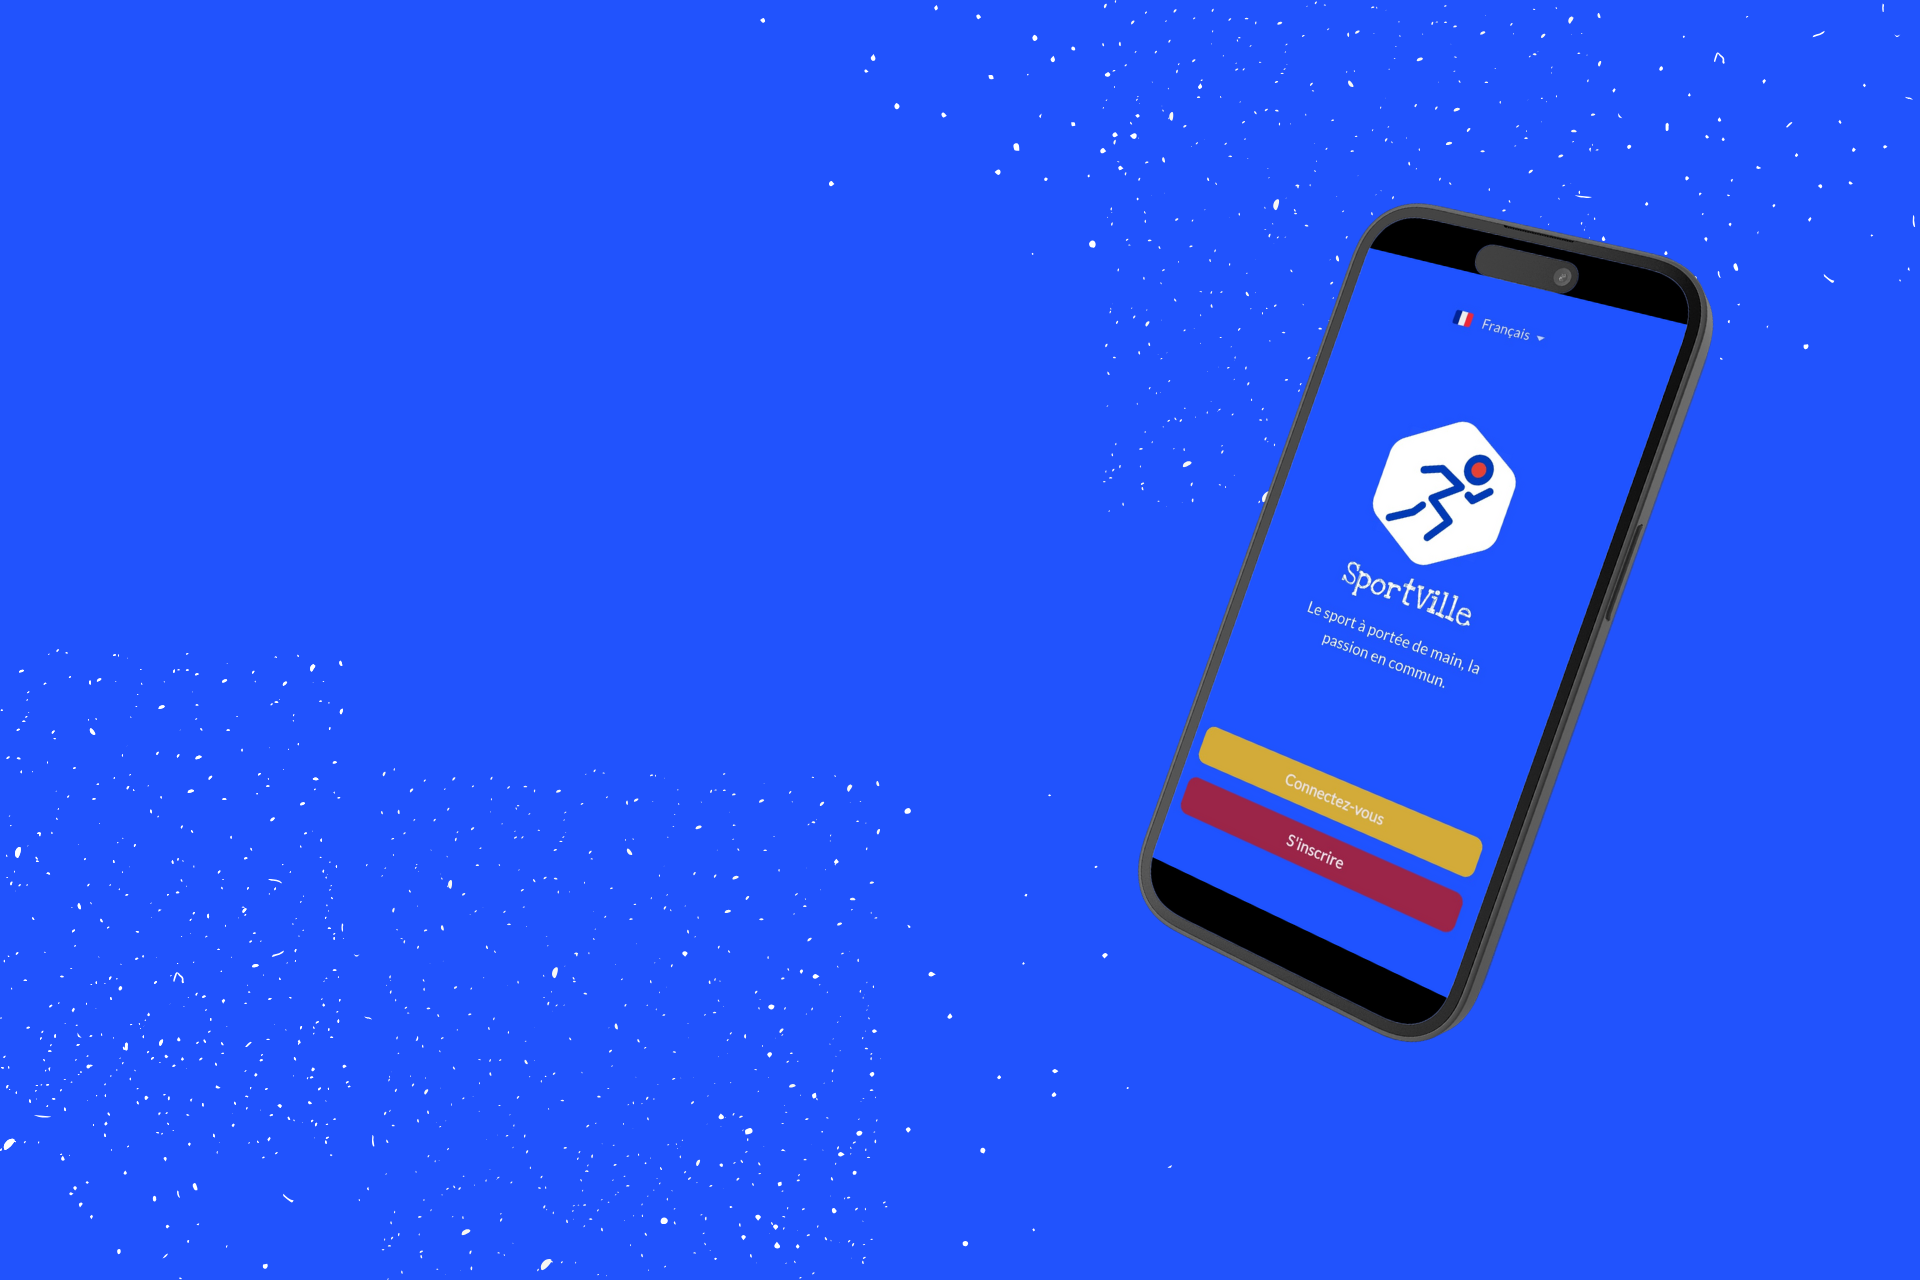
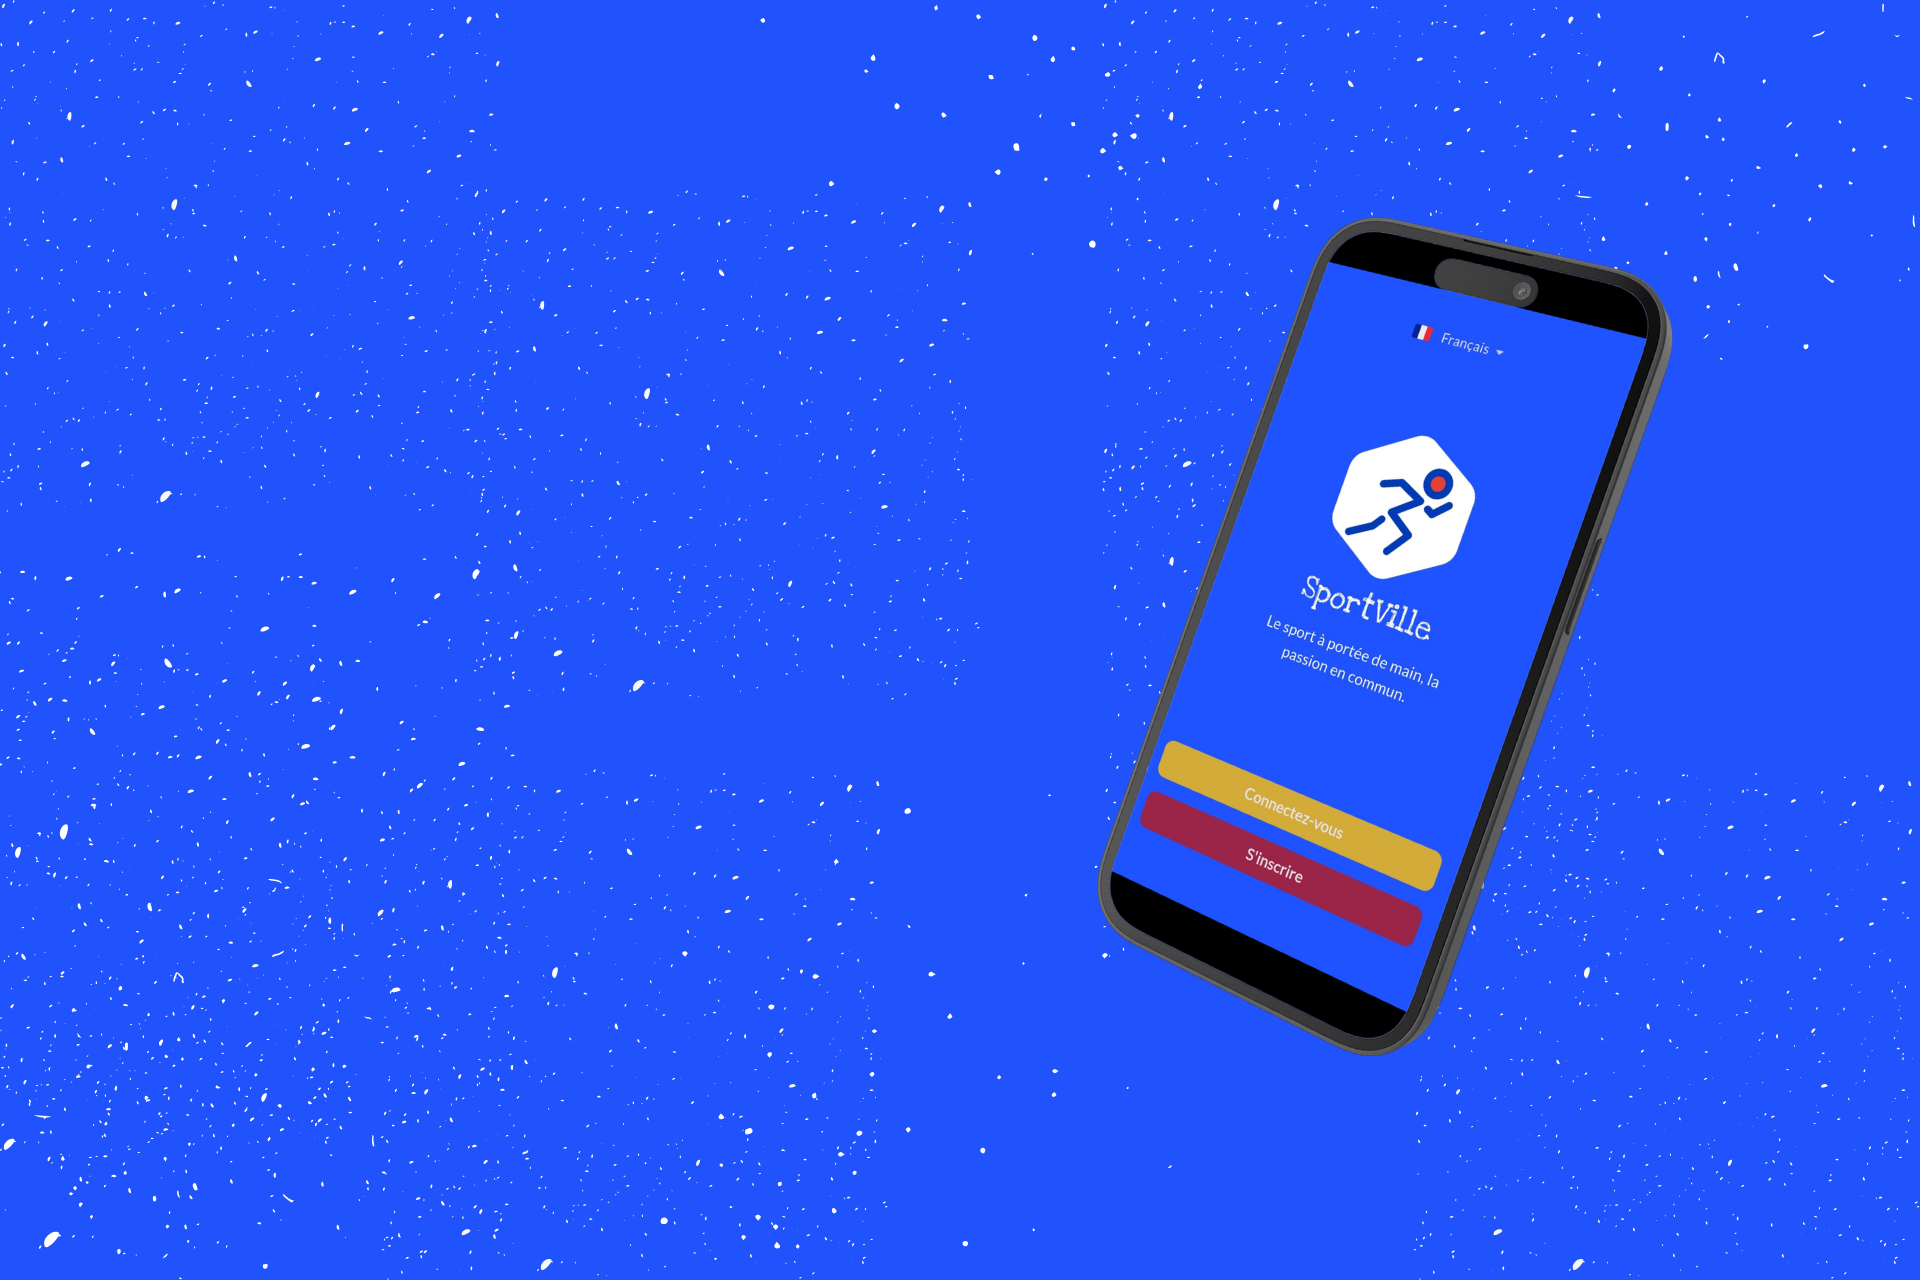
feat: update bc image with mobile style

Changed region(s): [[0.5625, 0.1562, 0.9062, 0.8438]]

diff --git a/sportville-landing-page/src/components/Footer/Footer.tsx b/sportville-landing-page/src/components/Footer/Footer.tsx
@@ -5,182 +5,97 @@ import { Instagram, Mail, MapPin } from 'lucide-react';
 
 const Footer: React.FC = () => {
   return (
-    // <footer style={{ backgroundColor: COLORS.background }} className="text-white pt-16 pb-8">
-    //   <div className="container mx-auto max-w-6xl px-6">
-    //     <div className="grid grid-cols-1 md:grid-cols-2 lg:grid-cols-4 gap-8 mb-12">
-    //       {/* Column 1 - About */}
-    //       <div>
-    //         <div className="flex items-center space-x-2 me-10">
-    //           <svg width="200px" height="200px" viewBox="-4.8 -4.8 57.60 57.60" fill="none" xmlns="http://www.w3.org/2000/svg">
-
-    //               <g id="SVGRepo_bgCarrier" strokeWidth="0"/>
-
-    //               <g id="SVGRepo_tracerCarrier" strokeLinecap="round" strokeLinejoin="round"/>
-
-    //               <g id="SVGRepo_iconCarrier"> <rect width="48" height="48" fill="white" fillOpacity="0.01"/> 
-    //                 <path d="M36 15C38.7614 15 41 12.7614 41 10C41 7.23858 38.7614 5 36 5C33.2386 5 31 7.23858 31 10C31 12.7614 33.2386 15 36 15Z" fill="#BA1A1A" stroke="#0d41e1" strokeWidth="2.4"/> 
-    //                 <path d="M12 16.7691L20.0031 13.998L31 19.2466L20.0031 27.4442L31 34.6834L24.0083 43.998" stroke="#0d41e1" strokeWidth="2.4" strokeLinecap="round" strokeLinejoin="round"/> 
-    //                 <path d="M35.3198 21.6434L38.0015 23.1018L43.9998 17.4658" stroke="#0d41e1" strokeWidth="2.4" strokeLinecap="round" strokeLinejoin="round"/> 
-    //                 <path d="M16.849 31.5454L13.8793 35.4572L4.00391 40.9964" stroke="#0d41e1" strokeWidth="2.4" strokeLinecap="round" strokeLinejoin="round"/> 
-    //               </g>
-    //           </svg>
-    //       </div>
-    //       </div>
-
-    //       <div>
-    //         <div className="flex items-center space-x-2 mb-4">
-    //           <Trophy size={24} color={COLORS.secondary} />
-    //         <span className="text-white text-xl appName">SportVille</span>
-    //         </div>
-            
-    //         <p className="mb-4 text-gray-300">
-    //         Le sport à portée de main, la passion en commun.
-    //         </p>
-            
-    //         <div className="flex space-x-4 mt-6">
-    //           {[Instagram].map((Icon, index) => (
-    //             <a 
-    //               key={index}
-    //               target='_blanc'
-    //               href="https://www.instagram.com/sport_ville.app?igsh=c2Y2Y3hyazBsbGF3&utm_source=qr" 
-    //               className="w-10 h-10 rounded-full flex items-center justify-center transition-colors hover:bg-white hover:bg-opacity-10"
-    //               style={{ color: COLORS.primary }}
-    //             >
-    //               <Icon size={20} />
-    //             </a>
-    //           ))}
-    //         </div>
-    //       </div>
-          
-          
-    //       {/* Column 4 - Contact */}
-    //       <div>
-    //         <h3 className="text-lg font-bold mb-4 border-b border-gray-700 pb-2">Nous contacter</h3>
-    //         <ul className="space-y-4">
-    //           {[
-    //             { icon: MapPin, text: 'Strasbourg, France'},
-    //             { icon: Mail, text: 'contact@sport-ville.fr' },
-    //           ].map((item, index) => (
-    //             <li key={index} className="flex items-start">
-    //               <item.icon size={18} className="mr-3 mt-1 flex-shrink-0" style={{ color: COLORS.secondary }} />
-    //               <span className="text-gray-300">{item.text}</span>
-    //             </li>
-    //           ))}
-    //         </ul>
-    //       </div>
-    //     </div>
+  <footer style={{ backgroundColor: COLORS.background }} className="text-white pt-16 pb-8">
+    <div className="container mx-auto max-w-6xl px-6">
+      <div className="grid grid-cols-1 md:grid-cols-2 lg:grid-cols-4 gap-12 mb-16">
         
-    //     {/* Bottom bar */}
-    //     <div className="pt-8 border-t border-gray-800 text-center md:flex md:justify-between md:text-left">
-    //       <p className="text-gray-400 mb-4 md:mb-0">
-    //         &copy; {new Date().getFullYear()} SportVille. Tous droits réservés.
-    //       </p>
-          
-    //       <div className="flex space-x-6 justify-center md:justify-end">
-    //         {['Politique de confidentialité', 'Conditions d\'utilisation',].map((item, index) => (
-    //           <a 
-    //             key={index}
-    //             href="#" 
-    //             className="text-gray-400 hover:text-white transition-colors text-sm"
-    //           >
-    //             {item}
-    //           </a>
-    //         ))}
-    //       </div>
-    //     </div>
-    //   </div>
-    // </footer>
-    <footer style={{ backgroundColor: COLORS.background }} className="text-white pt-16 pb-8">
-  <div className="container mx-auto max-w-6xl px-6">
-    <div className="grid grid-cols-1 md:grid-cols-2 lg:grid-cols-4 gap-12 mb-16">
-      
-      {/* Colonne 1 - Logo */}
-      <div className="flex flex-col items-start">
-        <div className="w-16 h-16 mb-4">
-          <svg width="100%" height="100%" viewBox="-4.8 -4.8 57.60 57.60" fill="none" xmlns="http://www.w3.org/2000/svg">
-            <g id="SVGRepo_iconCarrier">
-              <rect width="48" height="48" fill="white" fillOpacity="0.01"/> 
-              <path d="M36 15C38.7614 15 41 12.7614 41 10C41 7.23858 38.7614 5 36 5C33.2386 5 31 7.23858 31 10C31 12.7614 33.2386 15 36 15Z" fill="#BA1A1A" stroke="#0d41e1" strokeWidth="2.4"/> 
-              <path d="M12 16.7691L20.0031 13.998L31 19.2466L20.0031 27.4442L31 34.6834L24.0083 43.998" stroke="#0d41e1" strokeWidth="2.4" strokeLinecap="round" strokeLinejoin="round"/> 
-              <path d="M35.3198 21.6434L38.0015 23.1018L43.9998 17.4658" stroke="#0d41e1" strokeWidth="2.4" strokeLinecap="round" strokeLinejoin="round"/> 
-              <path d="M16.849 31.5454L13.8793 35.4572L4.00391 40.9964" stroke="#0d41e1" strokeWidth="2.4" strokeLinecap="round" strokeLinejoin="round"/> 
-            </g>
-          </svg>
+        {/* Colonne 1 - Logo */}
+        <div className="flex flex-col items-start">
+          <div className="w-16 h-16 mb-4">
+            <svg width="100%" height="100%" viewBox="-4.8 -4.8 57.60 57.60" fill="none" xmlns="http://www.w3.org/2000/svg">
+              <g id="SVGRepo_iconCarrier">
+                <rect width="48" height="48" fill="white" fillOpacity="0.01"/> 
+                <path d="M36 15C38.7614 15 41 12.7614 41 10C41 7.23858 38.7614 5 36 5C33.2386 5 31 7.23858 31 10C31 12.7614 33.2386 15 36 15Z" fill="#BA1A1A" stroke="#0d41e1" strokeWidth="2.4"/> 
+                <path d="M12 16.7691L20.0031 13.998L31 19.2466L20.0031 27.4442L31 34.6834L24.0083 43.998" stroke="#0d41e1" strokeWidth="2.4" strokeLinecap="round" strokeLinejoin="round"/> 
+                <path d="M35.3198 21.6434L38.0015 23.1018L43.9998 17.4658" stroke="#0d41e1" strokeWidth="2.4" strokeLinecap="round" strokeLinejoin="round"/> 
+                <path d="M16.849 31.5454L13.8793 35.4572L4.00391 40.9964" stroke="#0d41e1" strokeWidth="2.4" strokeLinecap="round" strokeLinejoin="round"/> 
+              </g>
+            </svg>
+          </div>
+          <h2 className="text-xl font-semibold mb-2">SportVille</h2>
+          <p className="text-gray-400 leading-relaxed">
+            SportVille connecte les passionnés de sport autour d’activités locales, conviviales et notées entre participants.
+          </p>
         </div>
-        <h2 className="text-xl font-semibold mb-2">SportVille</h2>
-        <p className="text-gray-400 leading-relaxed">
-          SportVille connecte les passionnés de sport autour d’activités locales, conviviales et notées entre participants.
-        </p>
-      </div>
 
-      {/* Colonne 2 - Raccourcis ou infos */}
-      <div>
-        <h3 className="text-lg font-bold mb-4 border-b border-gray-700 pb-2">À propos</h3>
-        <p className="text-gray-400 mb-4">
-          Le sport n’est pas qu’un effort, c’est un lien. Rejoignez notre communauté active dans votre ville.
-        </p>
-        <div className="flex space-x-4 mt-6">
-          {[Instagram].map((Icon, index) => (
-            <a
-              key={index}
-              target="_blank"
-              href="https://www.instagram.com/sport_ville.app?igsh=c2Y2Y3hyazBsbGF3&utm_source=qr"
-              className="w-10 h-10 bg-white bg-opacity-10 hover:bg-opacity-20 rounded-full flex items-center justify-center transition-colors"
-              style={{ color: COLORS.primary }}
-            >
-              <Icon size={20} />
-            </a>
-          ))}
+        {/* Colonne 2 - Raccourcis ou infos */}
+        <div>
+          <h3 className="text-lg font-bold mb-4 border-b border-gray-700 pb-2">À propos</h3>
+          <p className="text-gray-400 mb-4">
+            Le sport n’est pas qu’un effort, c’est un lien. Rejoignez notre communauté active dans votre ville.
+          </p>
+          <div className="flex space-x-4 mt-6">
+            {[Instagram].map((Icon, index) => (
+              <a
+                key={index}
+                target="_blank"
+                href="https://www.instagram.com/sport_ville.app?igsh=c2Y2Y3hyazBsbGF3&utm_source=qr"
+                className="w-10 h-10 bg-white bg-opacity-10 hover:bg-opacity-20 rounded-full flex items-center justify-center transition-colors"
+                style={{ color: COLORS.primary }}
+              >
+                <Icon size={20} />
+              </a>
+            ))}
+          </div>
+        </div>
+
+        {/* Colonne 3 - Navigation */}
+        <div>
+          <h3 className="text-lg font-bold mb-4 border-b border-gray-700 pb-2">Navigation</h3>
+
+          
+
+          <ul className="space-y-3 text-gray-300">
+            {NAVIGATIONS.map(nav => (
+              <li key={nav.id}>
+                <a href={nav.link} className="hover:text-white transition-colors">{nav.title}</a>
+              </li>
+            ))}
+          </ul>
+        </div>
+
+        {/* Colonne 4 - Contact */}
+        <div>
+          <h3 className="text-lg font-bold mb-4 border-b border-gray-700 pb-2">Nous contacter</h3>
+          <ul className="space-y-4">
+            {[
+              { icon: MapPin, text: '4, rue du Dôme 67000 Strasbourg' },
+              { icon: Mail, text: 'contact@sport-ville.fr' },
+            ].map((item, index) => (
+              <li key={index} className="flex items-start">
+                <item.icon size={18} className="mr-3 mt-1 flex-shrink-0" style={{ color: COLORS.secondary }} />
+                <span className="text-gray-300">{item.text}</span>
+              </li>
+            ))}
+          </ul>
         </div>
       </div>
 
-      {/* Colonne 3 - Navigation */}
-      <div>
-        <h3 className="text-lg font-bold mb-4 border-b border-gray-700 pb-2">Navigation</h3>
-
-        
-
-        <ul className="space-y-3 text-gray-300">
-          {NAVIGATIONS.map(nav => (
-            <li key={nav.id}>
-              <a href={nav.link} className="hover:text-white transition-colors">{nav.title}</a>
-            </li>
-          ))}
-        </ul>
-      </div>
-
-      {/* Colonne 4 - Contact */}
-      <div>
-        <h3 className="text-lg font-bold mb-4 border-b border-gray-700 pb-2">Nous contacter</h3>
-        <ul className="space-y-4">
-          {[
-            { icon: MapPin, text: 'Strasbourg, France' },
-            { icon: Mail, text: 'contact@sport-ville.fr' },
-          ].map((item, index) => (
-            <li key={index} className="flex items-start">
-              <item.icon size={18} className="mr-3 mt-1 flex-shrink-0" style={{ color: COLORS.secondary }} />
-              <span className="text-gray-300">{item.text}</span>
-            </li>
-          ))}
-        </ul>
+      {/* Footer bottom bar */}
+      <div className="pt-8 border-t border-gray-800 text-center md:flex md:justify-between md:text-left">
+        <p className="text-gray-400 mb-4 md:mb-0">
+          &copy; {new Date().getFullYear()} SportVille. Tous droits réservés.
+        </p>
+        <div className="flex space-x-6 justify-center md:justify-end text-sm">
+          {LEGALS.map(value => (
+              <li key={value.id}>
+                <a href={value.link} target='_blank' className="text-gray-400 hover:text-white transition-colors">{value.title}</a>
+              </li>
+            ))}
+        </div>
       </div>
     </div>
-
-    {/* Footer bottom bar */}
-    <div className="pt-8 border-t border-gray-800 text-center md:flex md:justify-between md:text-left">
-      <p className="text-gray-400 mb-4 md:mb-0">
-        &copy; {new Date().getFullYear()} SportVille. Tous droits réservés.
-      </p>
-      <div className="flex space-x-6 justify-center md:justify-end text-sm">
-        {LEGALS.map(value => (
-            <li key={value.id}>
-              <a href={value.link} target='_blank' className="text-gray-400 hover:text-white transition-colors">{value.title}</a>
-            </li>
-          ))}
-      </div>
-    </div>
-  </div>
-</footer>
+  </footer>
   );
 };
 

diff --git a/sportville-landing-page/src/components/Hero/Hero.tsx b/sportville-landing-page/src/components/Hero/Hero.tsx
@@ -2,20 +2,14 @@ import React from 'react';
 import { COLORS } from '../../utils/constants';
 import { ArrowRight, Star } from 'lucide-react';
 import { STATS } from '../../utils/constants';
-import BackgroundImage from '../../assets/images/background.png'
+// import BackgroundImage from '../../assets/images/background.png'
+import './hero.css'
 
 const Hero: React.FC = () => {
   return (
       <section className="relative min-h-screen flex items-center justify-center px-6 py-24">
         {/* Gradient overlay */}
-        <div
-        className="absolute inset-0 z-0"
-        style={{
-          backgroundImage: `url(${BackgroundImage})`,
-          backgroundSize: 'cover',
-          backgroundPosition: 'center',
-        }}
-      ></div>
+        <div className="hero-container absolute inset-0 z-0"></div>
 
         <div className="container mx-auto relative z-10 max-w-6xl">
           <div className="lg:w-2/3">

diff --git a/sportville-landing-page/src/components/Hero/hero.css b/sportville-landing-page/src/components/Hero/hero.css
@@ -1,0 +1,14 @@
+
+.hero-container{
+   background: url('../../assets/images/background.png') center center no-repeat;
+   background-size: cover;
+   background-attachment: fixed;
+}
+
+@media (max-width: 600px) {
+    .hero-container{
+        background: url('../../assets/images/background-mobile.png') center center no-repeat;
+        background-size: cover;
+        background-attachment: fixed;
+    }
+}
